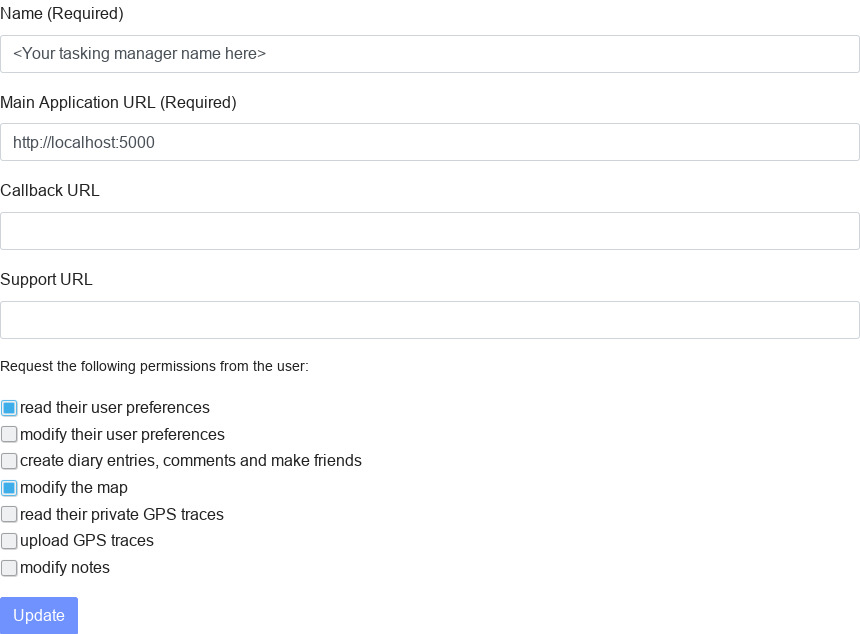
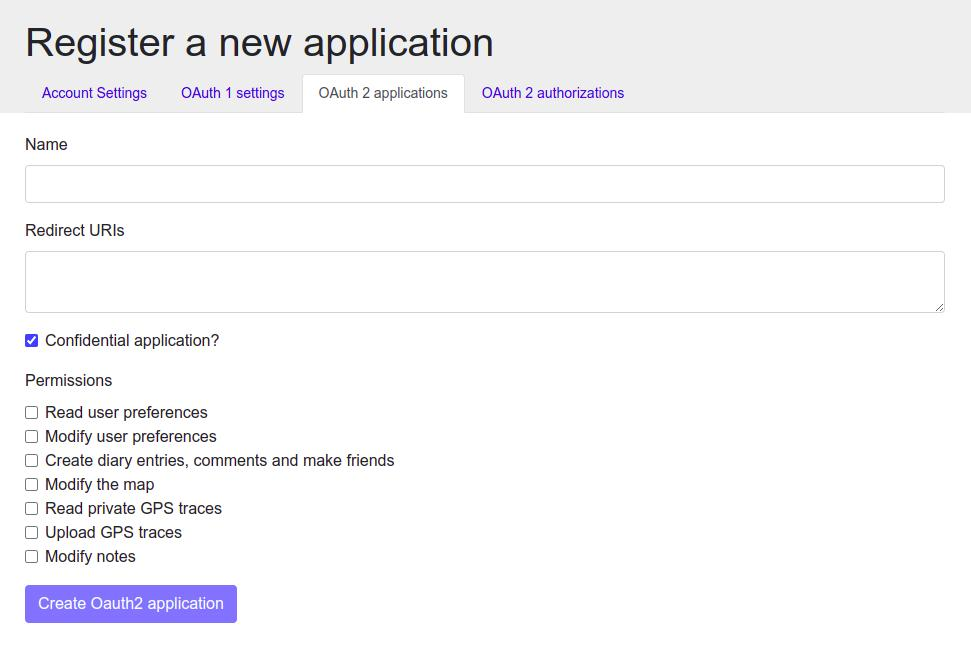
updated namings

diff --git a/docs/setup-docker.md b/docs/setup-docker.md
@@ -41,7 +41,7 @@ volumes:
 
 The Tasking Manager uses OpenStreetMap accounts for users to login.
 
-In order to configure this connection you have to go to `https://www.openstreetmap.org/user/<Your_OSM_UserName>/oauth_clients/new` and fill in the form:
+In order to configure this connection you have to go to `https://www.openstreetmap.org/oauth2/applications/new` and fill in the form:
 
 <img width="300" alt="Required OSM OAuth settings" src="./assets/osm-oauth-settings.jpg">
 
